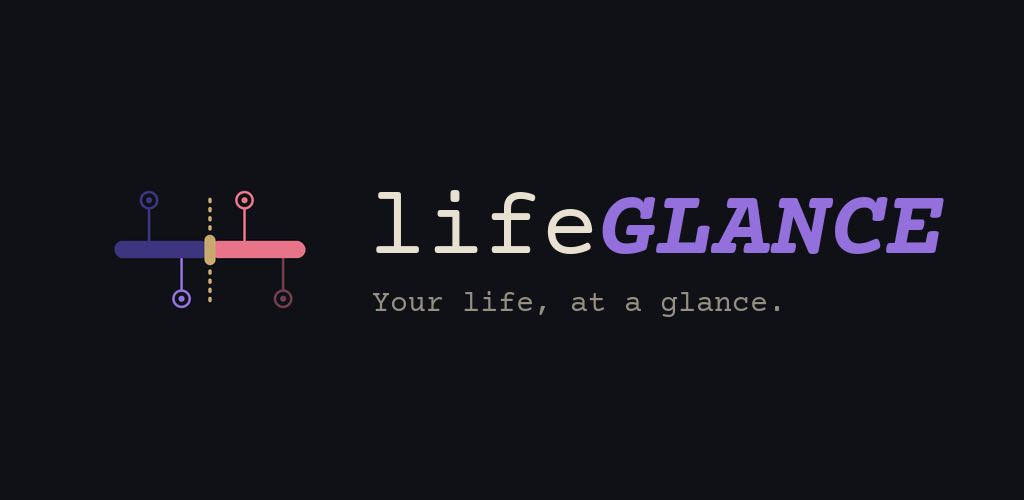
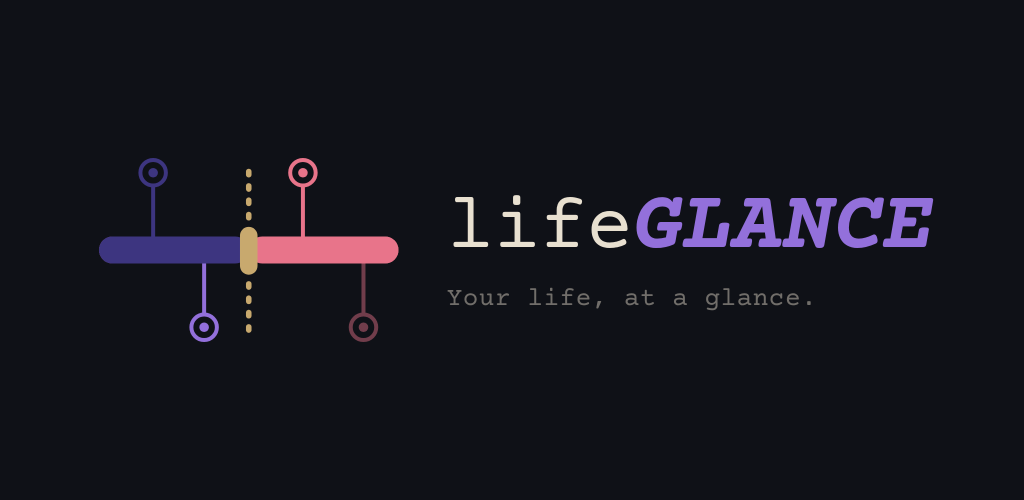
Generate the Play feature graphic with Courier Prime
The banner was a static PNG hand-rendered with IBM Plex Mono as a stand-in, so
its lifeGLANCE wordmark didn't match the app's actual font (Courier Prime).

Add scripts/feature-graphic.mjs (npm run feature-graphic): it renders the
1024x500 banner as the app's logo lockup — icon motif on the left, then "life"
(Courier Prime regular) and "GLANCE" (Courier Prime bold italic), with the
tagline beneath — mirroring src/index.css .logo. Courier Prime is vendored under
scripts/assets/fonts (SIL OFL) and embedded as a data URI so rendering needs no
network — Chromium can't always reach Google Fonts through the sandbox proxy,
and a silent fallback there is exactly the bug this replaces. The script proves
the font actually rendered (all faces load AND the applied font is monospace,
which a proportional fallback is not) and refuses to output otherwise. Renders
at 2x and box-downsamples for crisp text, then writes 24-bit RGB with no alpha
per Play's spec. Regenerate feature-graphic.png and document the generator in
play-assets/README.md. Adds pngjs (pure-JS, flatten/downsample) as a devDep.

Claude-Session: https://claude.ai/code/session_01NWPPmTD9jprSw5GScAJ2Mn

Changed region(s): [[0.0938, 0.3, 0.9375, 0.69]]

diff --git a/play-assets/README.md b/play-assets/README.md
@@ -4,11 +4,16 @@ Marketing assets for the Google Play listing (not used by the app build).
 
 ## feature-graphic.png
 - **1024 × 500**, 24-bit PNG, no alpha — meets Play's feature-graphic spec.
-- On-brand: app background `#0F1117`, the app icon, the `lifeGLANCE` wordmark
-  (`life` in `#E8E0D0`, `GLANCE` in `#9370DB`), the "Your life, at a glance."
-  tagline, and a timeline rule with the category-colour dots.
-- **Font note:** rendered with IBM Plex Mono as a stand-in. The in-app wordmark
-  uses **Courier Prime** — re-render with that font for a pixel-faithful match.
+- The app's logo lockup on a `#0F1117` background: the icon motif on the left,
+  then the `lifeGLANCE` wordmark (`life` in `#E8E0D0`, `GLANCE` in bold italic
+  `#9370DB`) with the "Your life, at a glance." tagline beneath it — mirroring
+  the in-app logo.
+- **Generated**, not hand-made: run `npm run feature-graphic` to (re)render it
+  from `scripts/feature-graphic.mjs`. It uses **Courier Prime** — the app's real
+  wordmark font, vendored under `scripts/assets/fonts` (SIL OFL) and embedded, so
+  it needs no network — and hard-fails unless that font actually rendered, so the
+  wordmark can never silently regress to a substitute. Edit the layout/colours in
+  that script and re-run to change the banner. Output is 24-bit RGB, no alpha.
 
 ## High-res icon (for Play)
 Use `public/icon-512x512.png` (512 × 512). It's 24-bit RGB; if Play's uploader